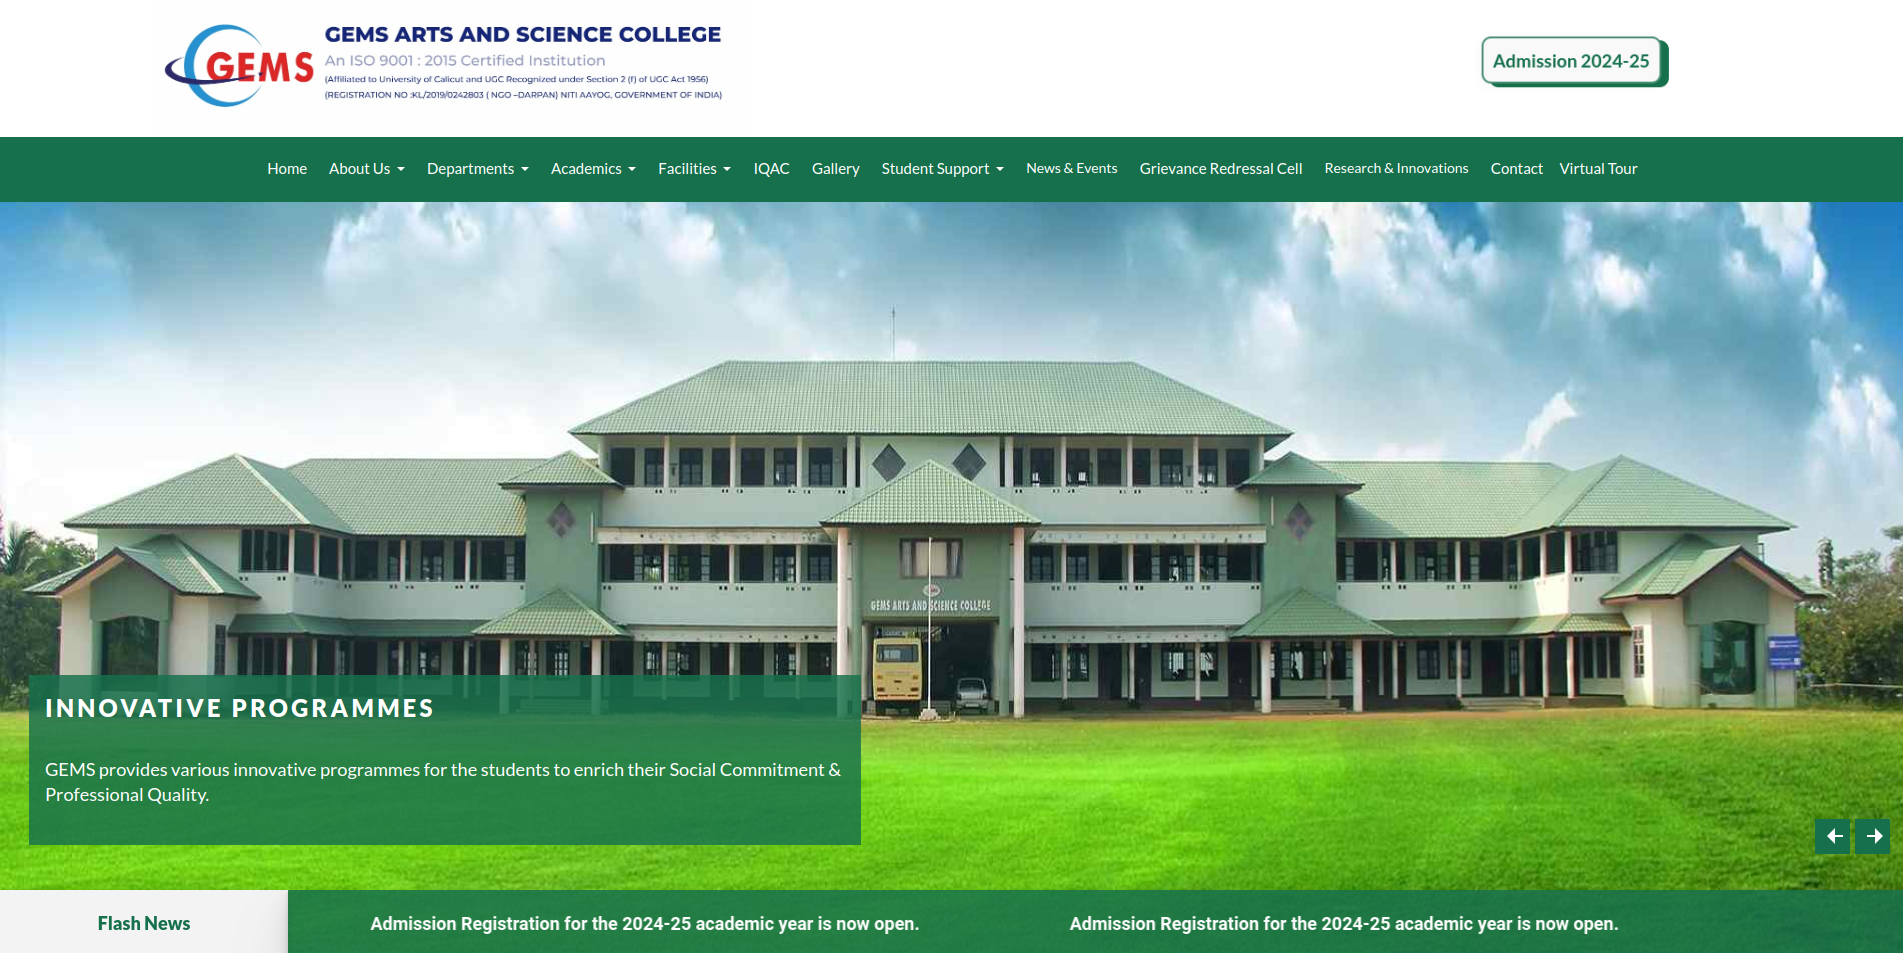
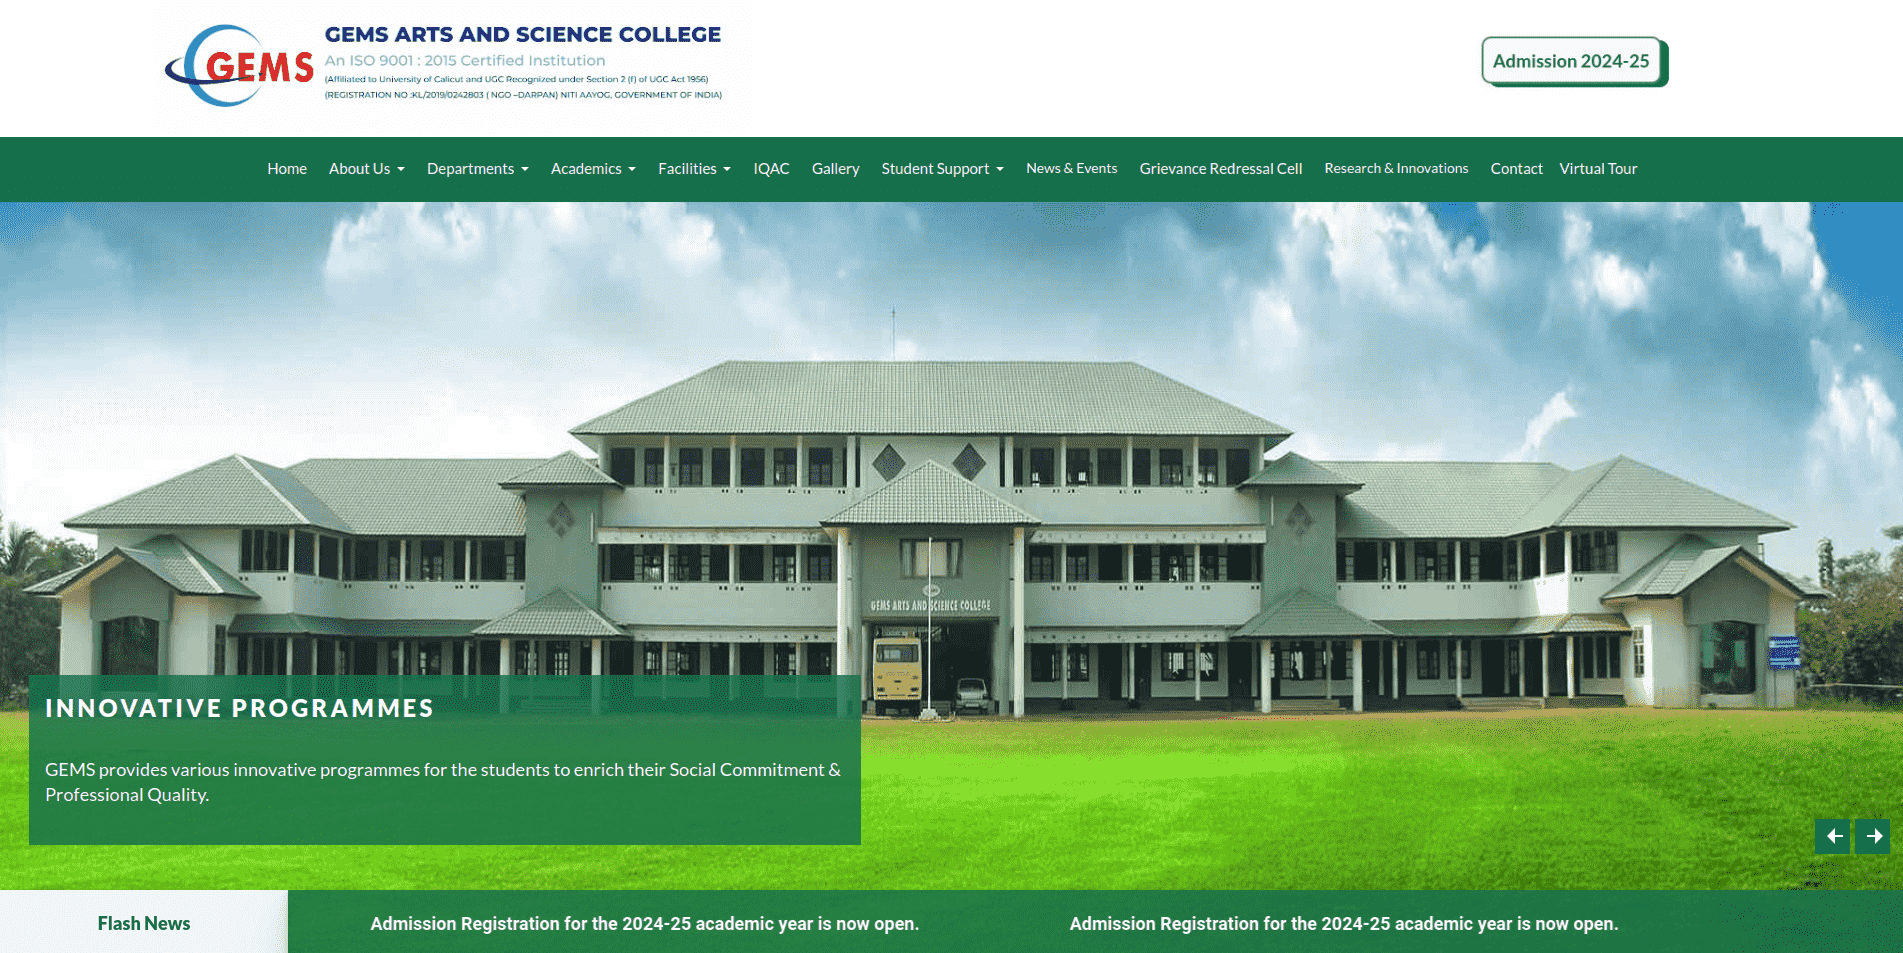
new changes in css file

diff --git a/assets/css/style.css b/assets/css/style.css
@@ -500,7 +500,7 @@ scale:1.05;
 # Hero
 --------------------------------------------------------------*/
 #hero {
-  background: url("../img/home-bg.jpg") repeat scroll center center/cover;
+  background: url("../img/home-bg.webp") repeat scroll center center/cover;
   height: 100vh;
   width: 100%;
 }
@@ -595,6 +595,15 @@ scale:1.05;
   .breadcrumbs .d-flex {
     display: block !important;
   }
+  .hero-content p{
+  text-align: justify;
+  }
+  .list-unstyled {
+    padding-left: 0;
+    list-style: none;
+    margin-left: auto;
+    margin-right: 0;
+}
 
   .breadcrumbs ol {
     display: block;
